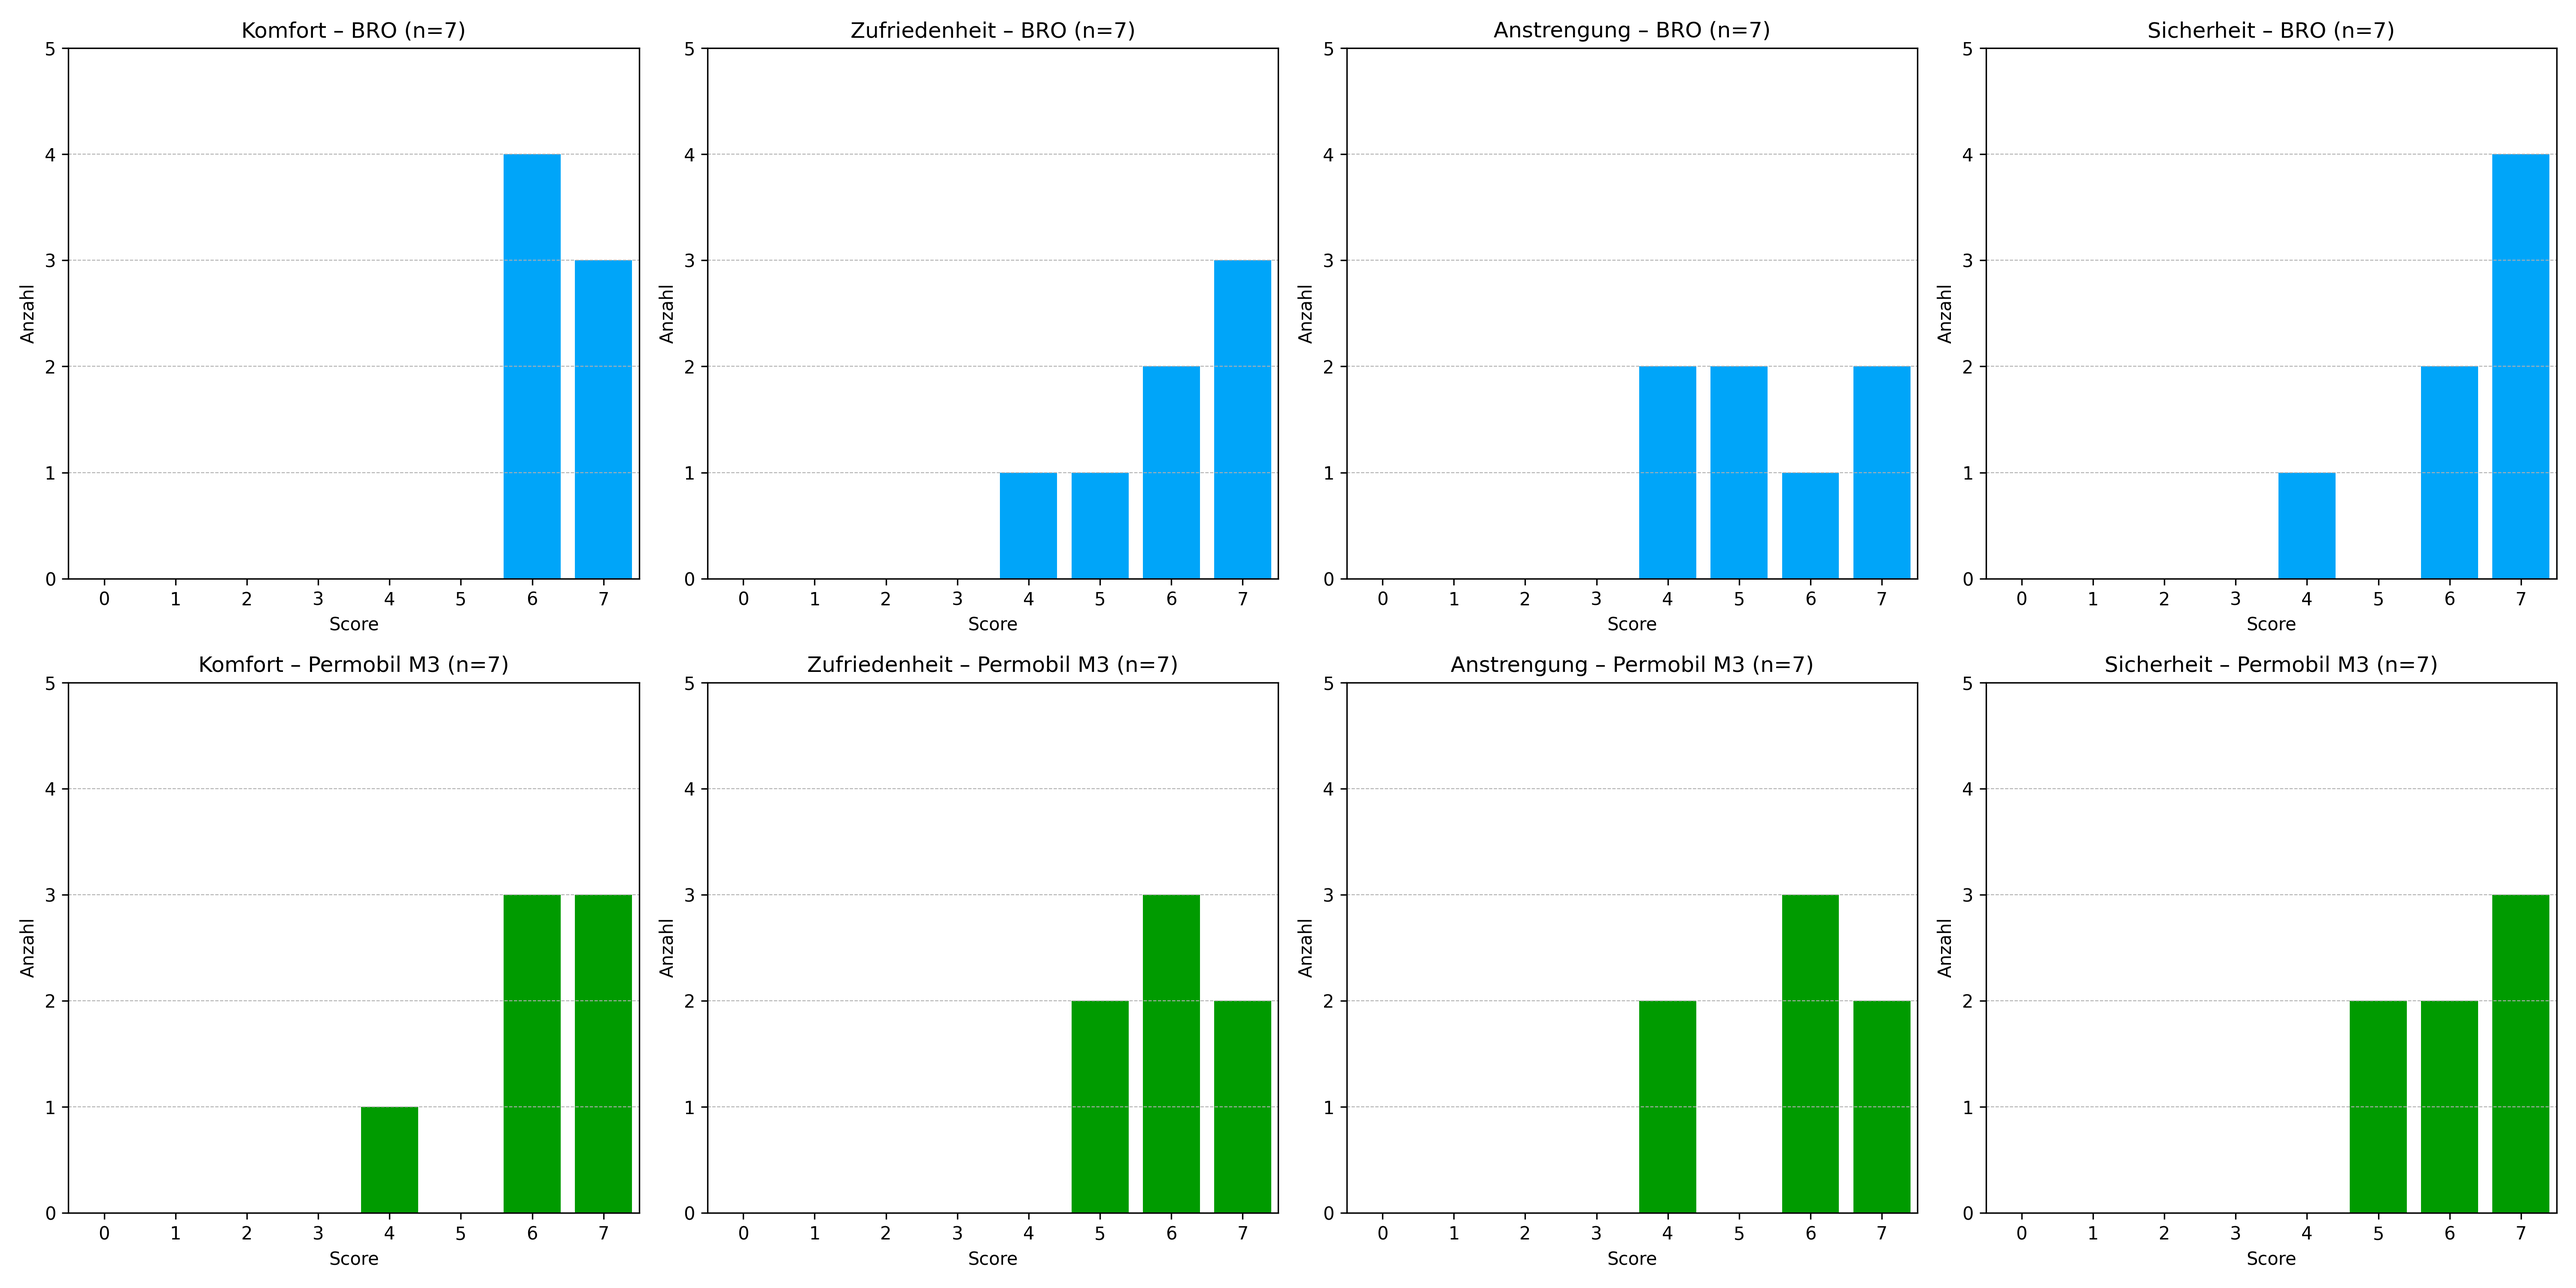
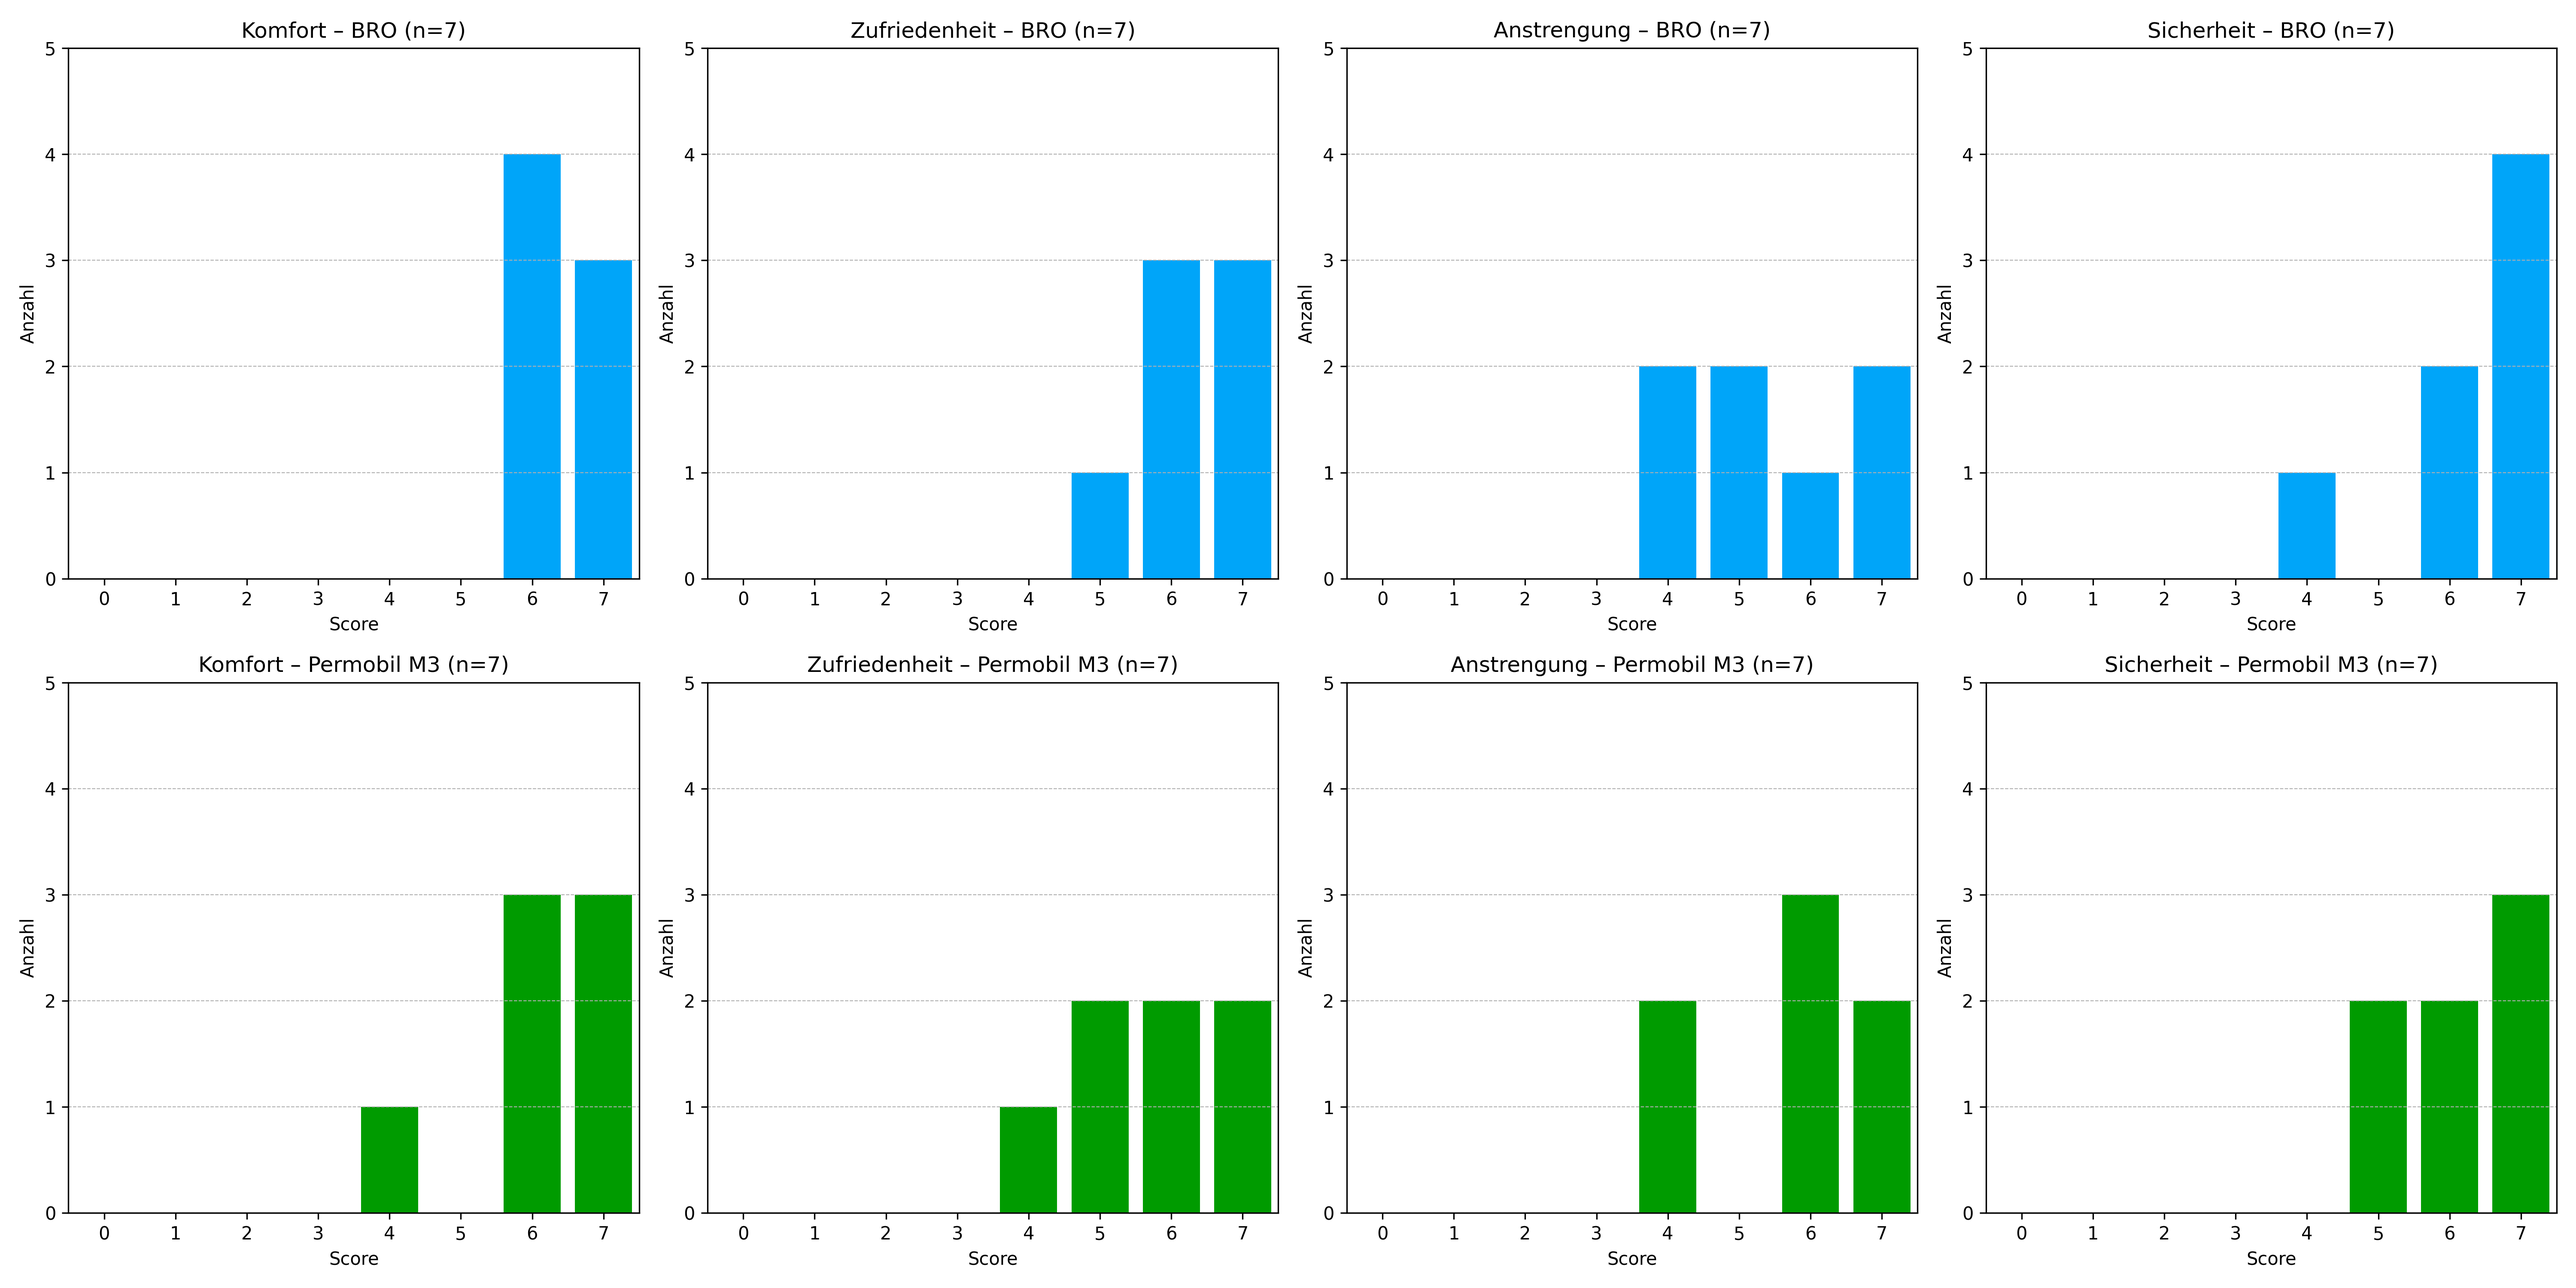
score-plots

diff --git a/Code/ad-interim 2.py b/Code/ad-interim 2.py
@@ -171,3 +171,81 @@ split_named_bar_path = os.path.join(base_dir, "../Output", "ssi_stacked_barplots
 plt.savefig(split_named_bar_path, dpi=300)
 plt.close()
 print(f"SSI-Barplots gespeichert unter: {split_named_bar_path}")
+
+# === Gruppierte Barplots für Aufgaben 1–6 mit korrekt zugewiesenen Scores ===
+
+color_map = {'BRO': (0/255, 165/255, 249/255), 'Permobil M3': (0/255, 155/255, 0/255)}
+
+fig, axs = plt.subplots(3, 2, figsize=(12, 10))  # 3 Zeilen, 2 Spalten
+axs = axs.flatten()
+
+# Funktion zur Extraktion gemäß korrekter Logik
+def extract_scores_correct_by_group(row, task_num, version_label):
+    if version_label == 'BRO':
+        if row['Group'] == 'A':
+            return [row[col] for col in df.columns if col.startswith(f"M1_{task_num}.") and col.endswith("_score")]
+        elif row['Group'] == 'B':
+            return [row[col] for col in df.columns if col.startswith(f"M2_{task_num}.") and col.endswith("_score")]
+    elif version_label == 'Permobil M3':
+        if row['Group'] == 'A':
+            return [row[col] for col in df.columns if col.startswith(f"M2_{task_num}.") and col.endswith("_score")]
+        elif row['Group'] == 'B':
+            return [row[col] for col in df.columns if col.startswith(f"M1_{task_num}.") and col.endswith("_score")]
+    return []
+
+# Schritt 1: Daten sammeln & globales y-Maximum berechnen
+score_data_per_task = []
+global_max = 0
+
+for task_num in range(1, 7):
+    bro_rows = []
+    m3_rows = []
+
+    for _, row in df.iterrows():
+        bro_rows.extend([{'Score': s, 'Version': 'BRO'} for s in extract_scores_correct_by_group(row, task_num, 'BRO') if pd.notna(s)])
+        m3_rows.extend([{'Score': s, 'Version': 'Permobil M3'} for s in extract_scores_correct_by_group(row, task_num, 'Permobil M3') if pd.notna(s)])
+
+    all_scores = pd.DataFrame(bro_rows + m3_rows)
+    all_scores['Score'] = all_scores['Score'].astype(int)
+
+    score_counts = all_scores.groupby(['Score', 'Version']).size().unstack(fill_value=0)
+    for version in ['BRO', 'Permobil M3']:
+        if version not in score_counts.columns:
+            score_counts[version] = 0
+    score_counts = score_counts.reindex([1, 2, 3], fill_value=0)
+
+    global_max = max(global_max, score_counts.values.max())
+    score_data_per_task.append((task_num, score_counts))
+
+# Schritt 2: Plots erstellen mit einheitlicher y-Achse
+for i, (task_num, score_counts) in enumerate(score_data_per_task):
+    ax = axs[i]
+    width = 0.35
+    x = np.arange(len(score_counts.index))
+
+    bars_bro = ax.bar(x - width/2, score_counts['BRO'], width, label='BRO', color=color_map['BRO'])
+    bars_m3 = ax.bar(x + width/2, score_counts['Permobil M3'], width, label='Permobil M3', color=color_map['Permobil M3'])
+
+    ax.set_title(f'Aufgabe {task_num}', fontsize=11)
+    ax.set_xticks(x)
+    ax.set_xticklabels(['1', '2', '3'], fontsize=10)
+    ax.set_ylim(0, global_max + 1)
+    ax.set_yticks(list(range(0, global_max + 5, 5)))
+    ax.set_ylabel('Anzahl', fontsize=10)
+    ax.grid(True, axis='y', linestyle='--', linewidth=0.5)
+
+    # Balkenbeschriftung
+    for bar in bars_bro + bars_m3:
+        height = bar.get_height()
+        if height > 0:
+            ax.text(bar.get_x() + bar.get_width() / 2, height + 0.3, f"{int(height)}", ha='center', va='bottom', fontsize=9)
+
+axs[-1].set_xlabel('Score', fontsize=10)
+axs[0].legend(loc='upper left', fontsize=9)
+
+plt.tight_layout()
+output_path = os.path.join(base_dir, "../Output", "task1to6_score_grouped_barplot_corrected.png")
+plt.savefig(output_path, dpi=300)
+plt.close()
+
+print(f"KORREKTER Score-Barplot (BRO vs. Permobil M3) gespeichert unter: {output_path}")
